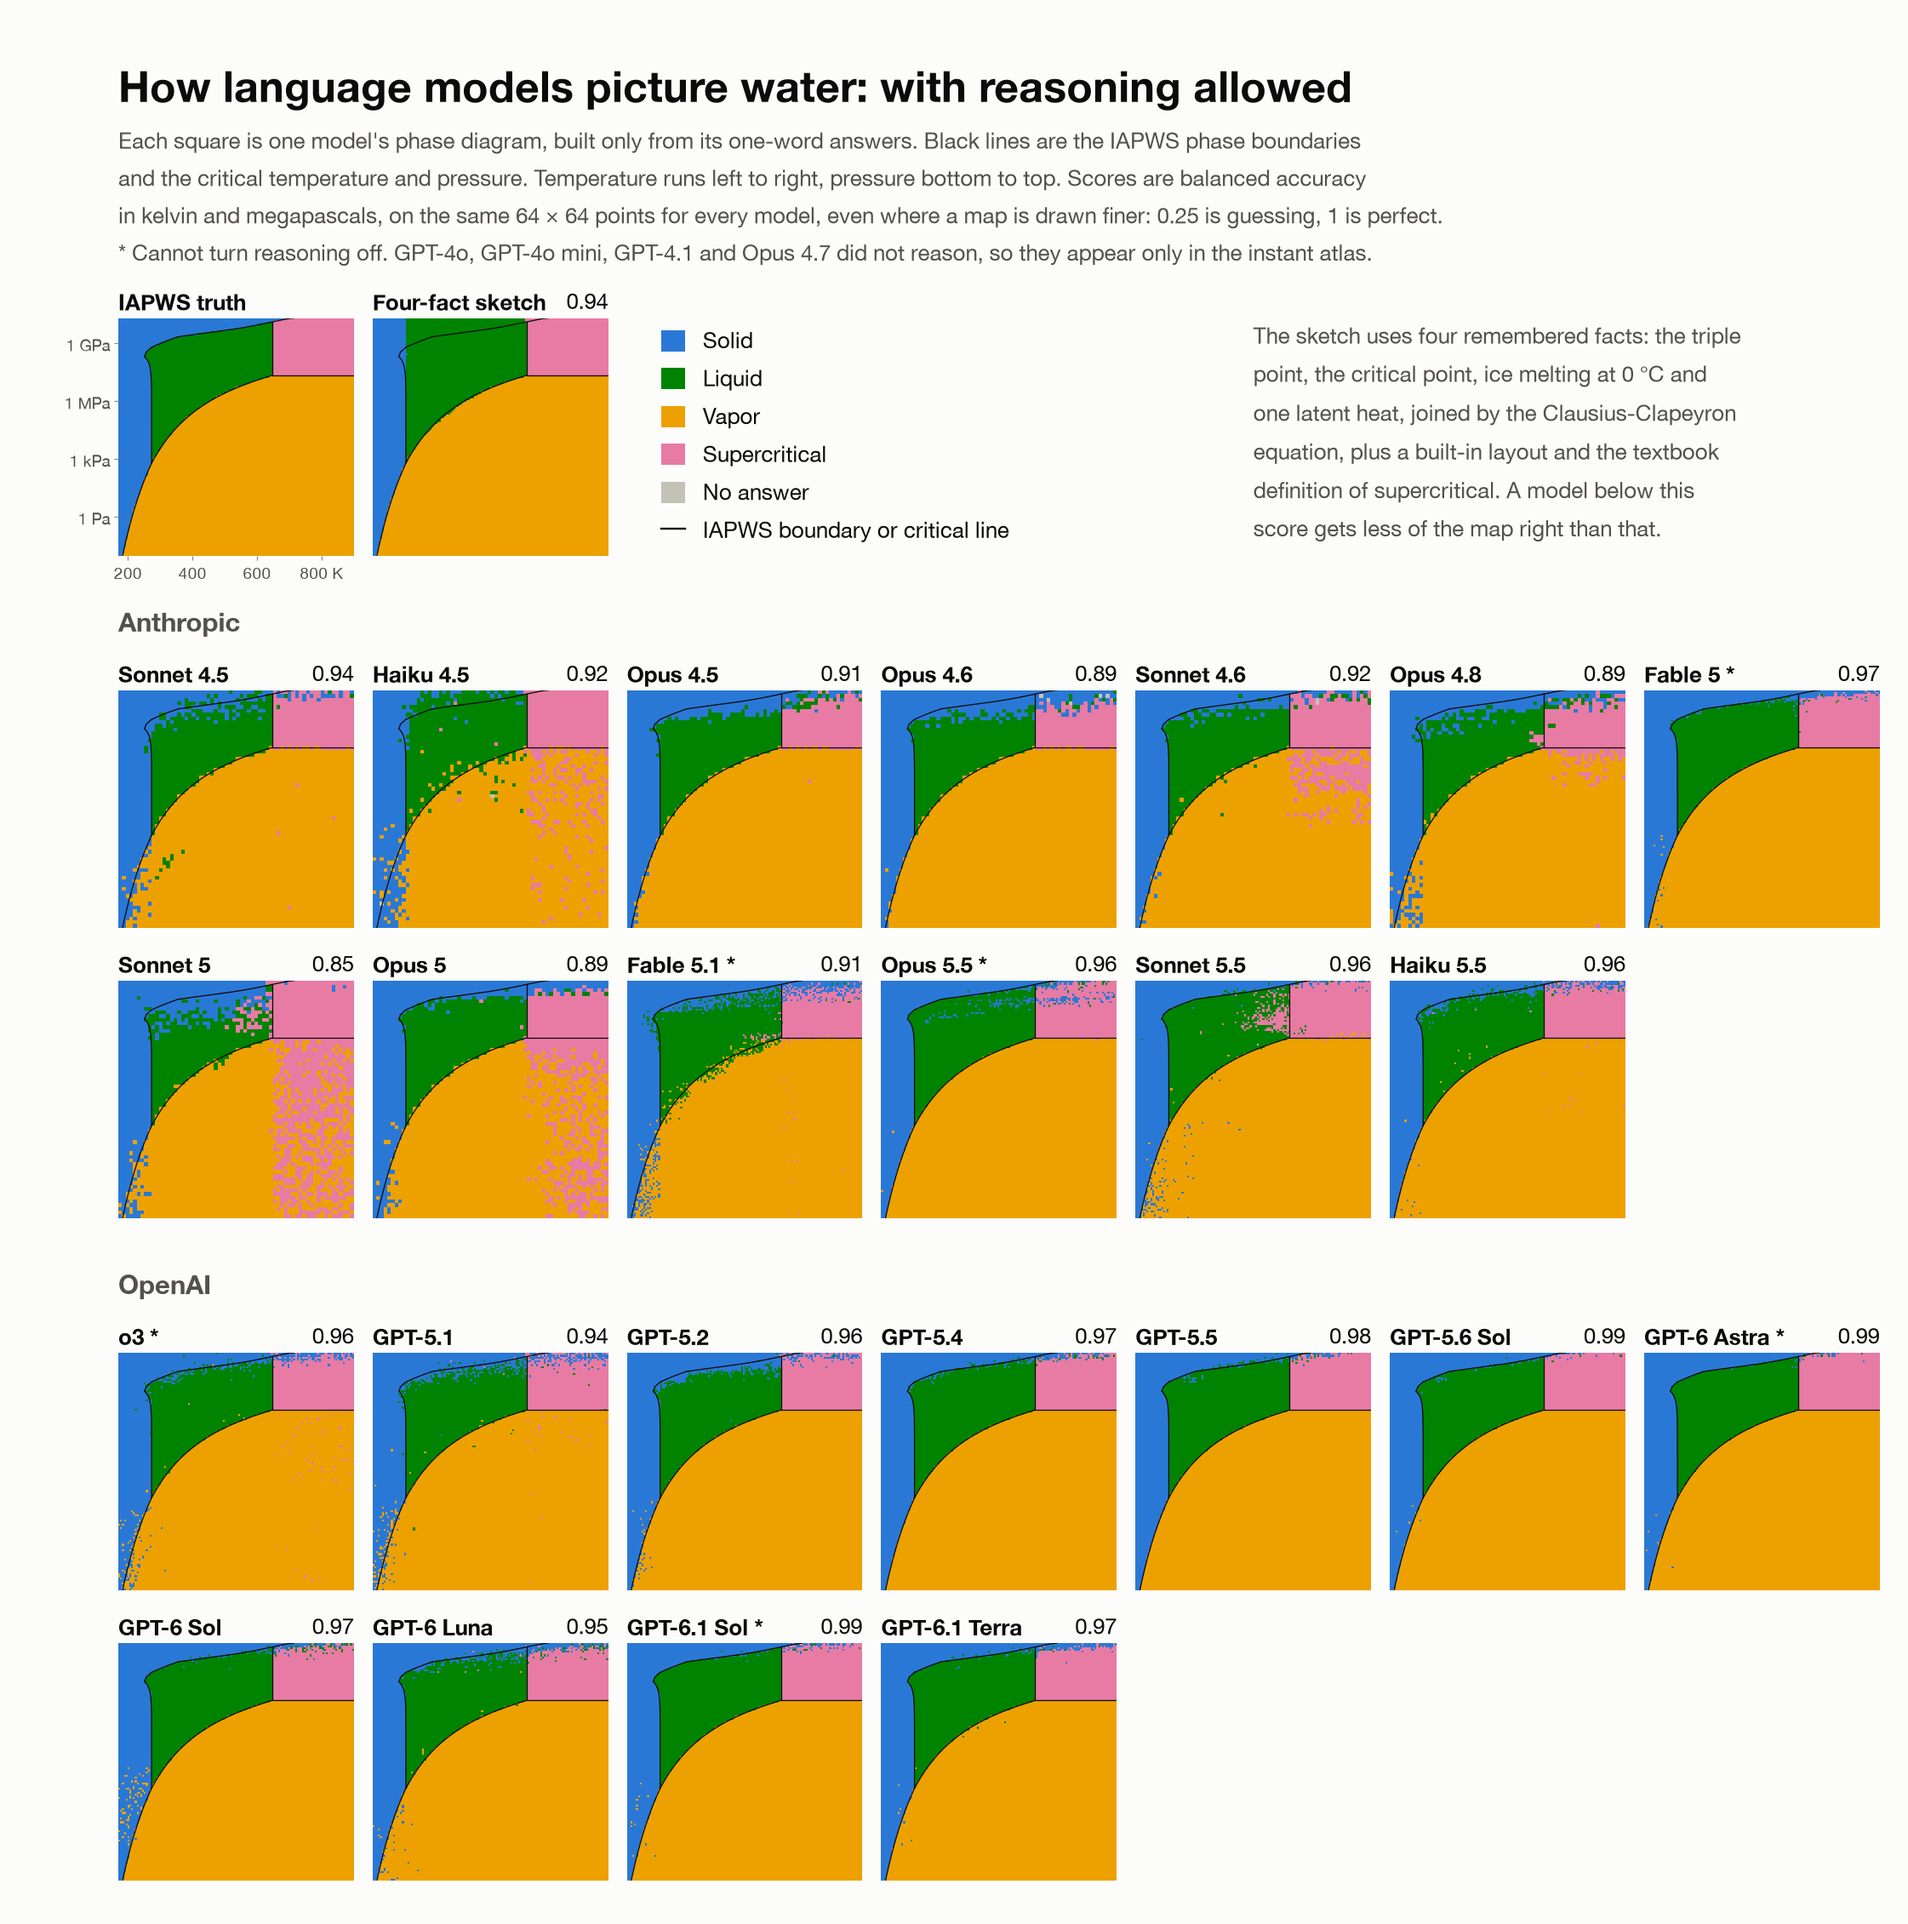
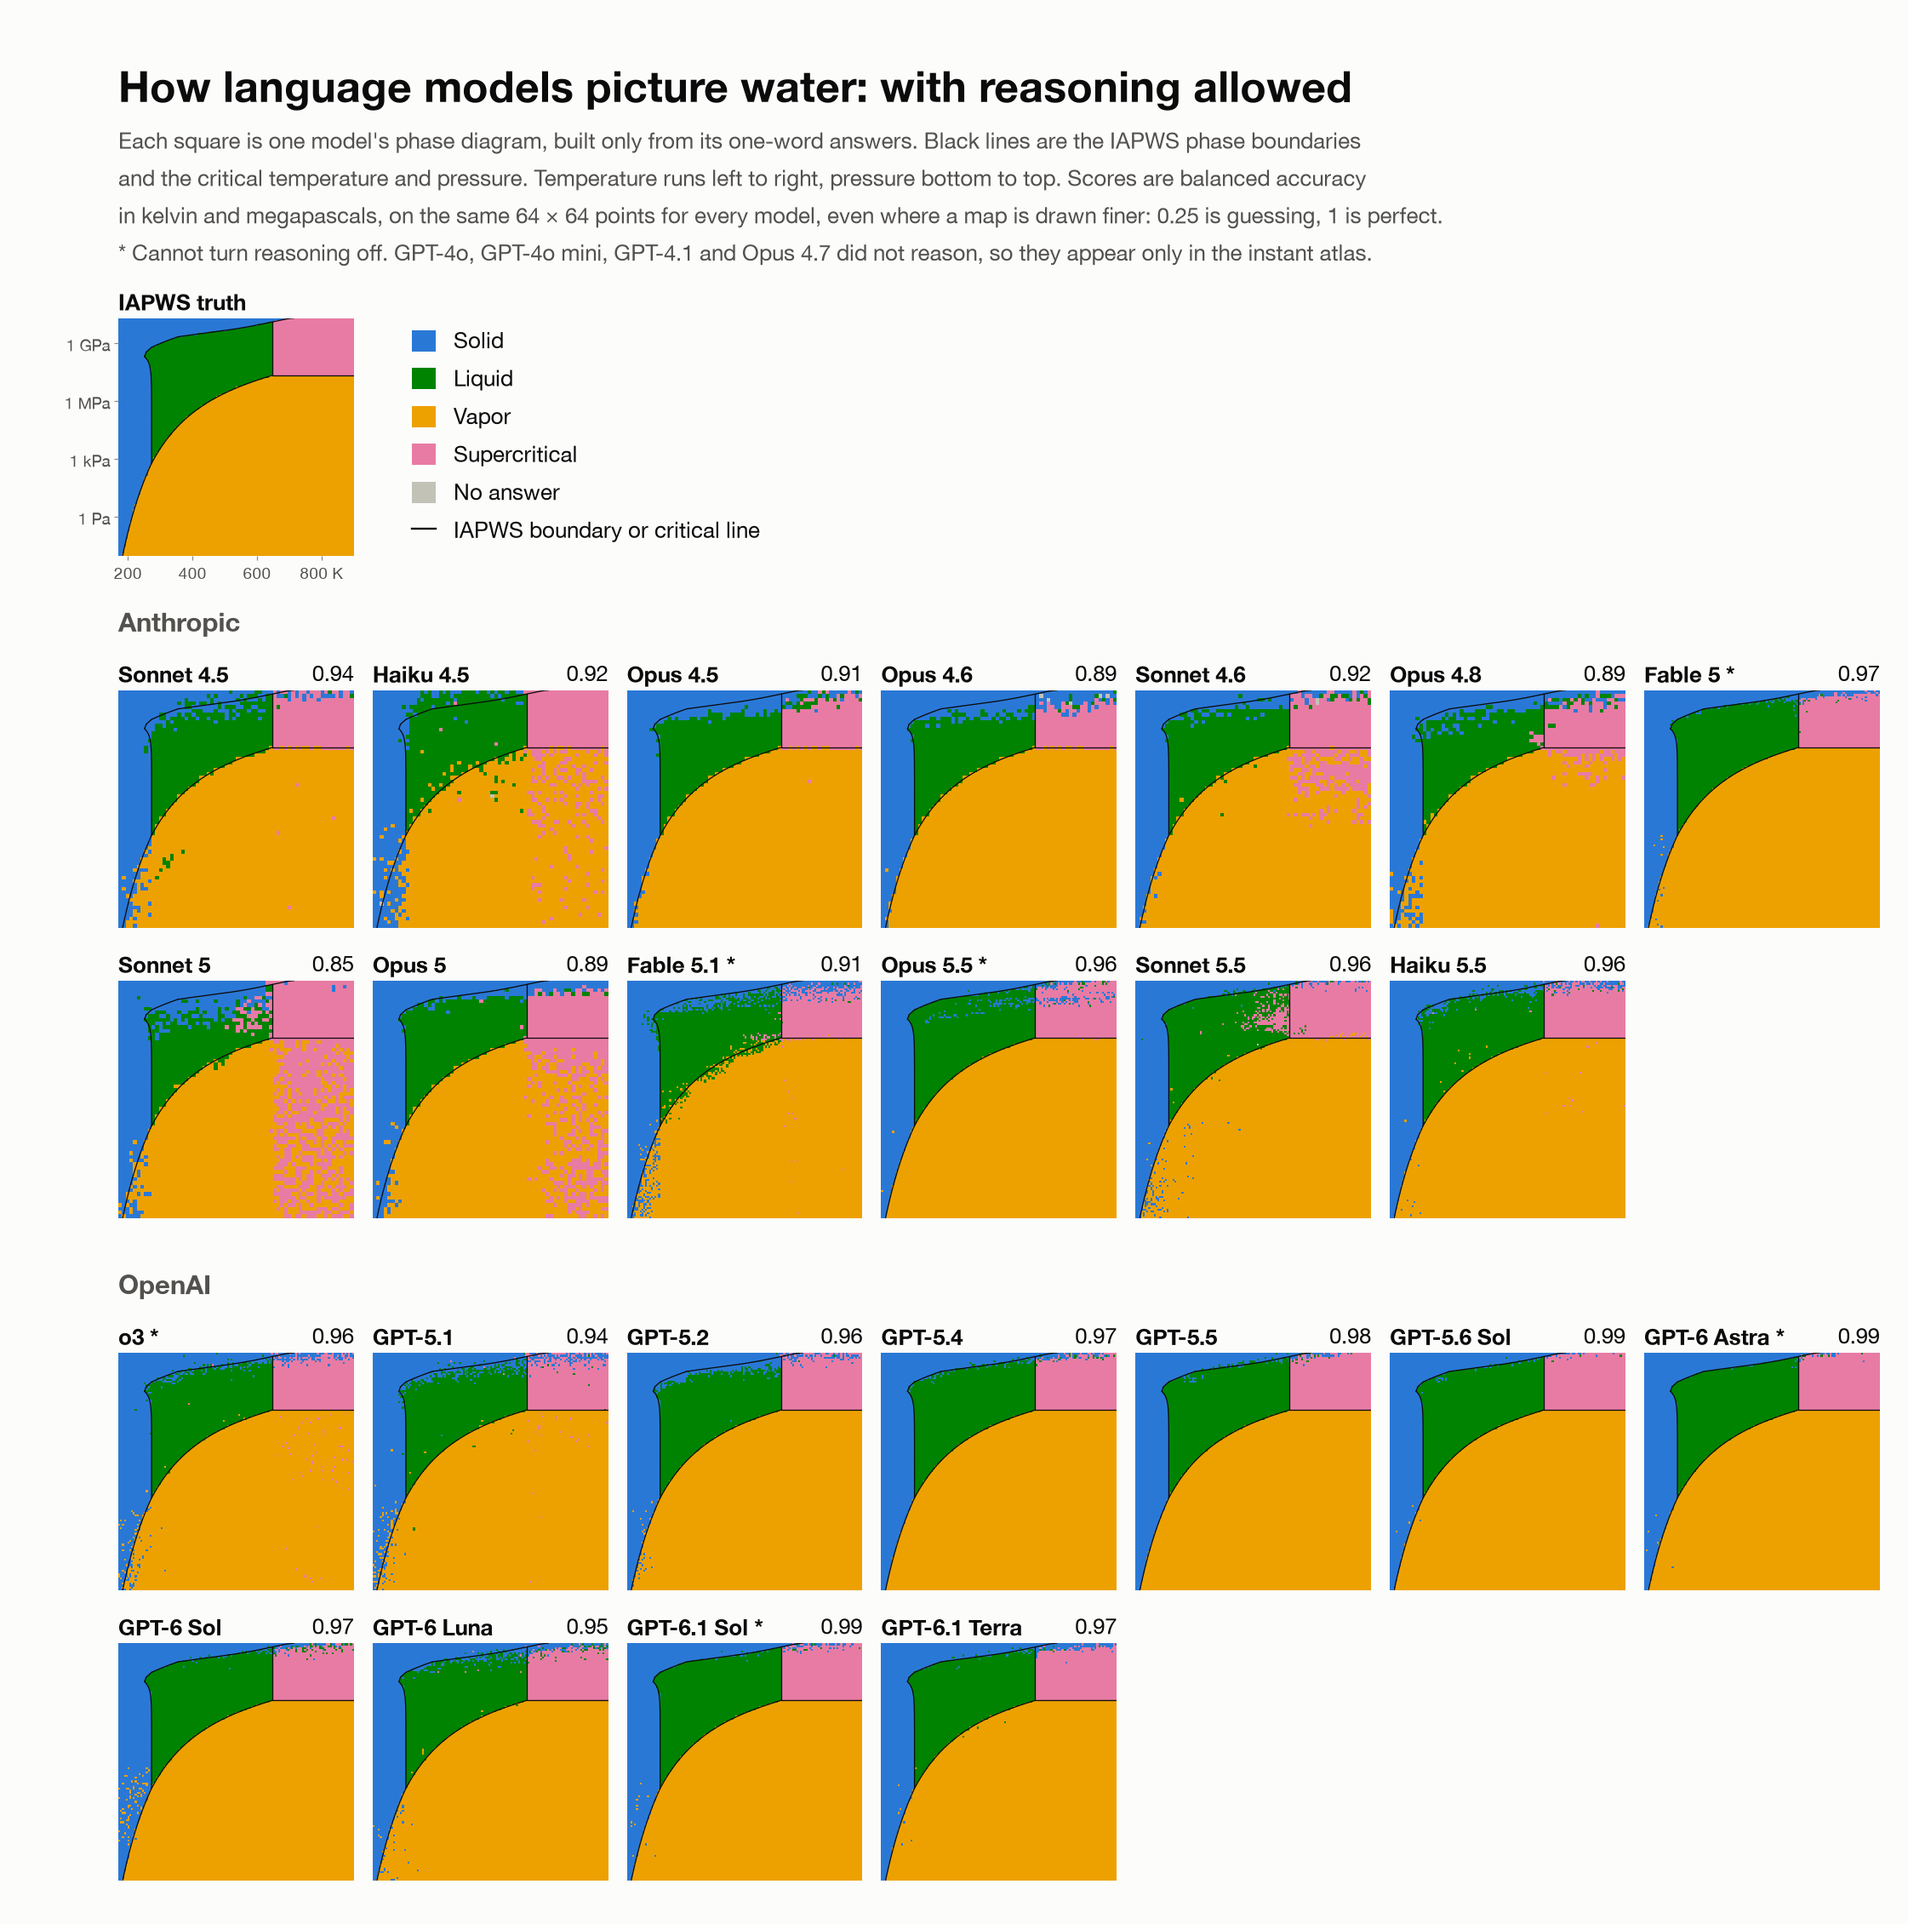
Update the water post

Changed region(s): [[0.1873, 0.1549, 0.4371, 0.3097], [0.6557, 0.1549, 0.9054, 0.2788]]

diff --git a/_posts/blog/2026-11-03-phase-diagram.md b/_posts/blog/2026-11-03-phase-diagram.md
@@ -1,21 +1,24 @@
 ---
 layout: post
-title: What does a language model think water does?
+title: Can LLMs predict water's state?
 date: 2026-11-03
 categories: machine_learning
 ---
 
-Thanks to left-over API credits, I got 1,180,160 answers from 28 language models, 14 from Anthropic and 14 from OpenAI, on the state of pure water at different temperatures and pressures. Each question looked like this:
+Thanks to left-over API credits, I got 1,180,160 answers from 28 language models, 14 from Anthropic and 14 from OpenAI, on the state of pure water at different temperatures and pressures, [repo](https://github.com/kiankyars/phase-diagram). Each question followed this format:
 
 > Pure water at equilibrium, at 450.00 kelvin and 2.000 megapascals: solid, liquid, vapor, or supercritical? Do not say anything else.
 
-Every question went in on its own, with no tools and no memory of the others. From the answers I drew the phase diagram each model implies and graded it against the IAPWS reference equations. The idea comes from henry's [How does a blind model see the Earth?](https://outsidetext.substack.com/p/how-does-a-blind-model-see-the-earth), which did the same thing with a world map.
+TL;DR
 
-The short version: answering instantly, no model beats a sketch I could draw from four facts I remember from school. Allowed to reason, 14 of 24 models beat it and the best are almost exact. Newer models are not clearly better.
+Instant answers are worse than reasoned ones, the best reasoning models are almost exact; I also not that newer models are not clearly better.
+
+The questions were independent, with no tools or memory. From the answers I drew the phase diagram of each model against the IAPWS reference equations.
+
 
 ## Explore the answers
 
-Every pixel is one question. Hover over it (or tap it, or use the arrow keys) to see the exact prompt, what the model said and the true phase. Black lines are the true boundaries.
+Hover over a pixel (or tap it, or use the arrow keys) to see the exact prompt, what the model said and the true phase. Black lines are the true boundaries.
 
 <div id="explorer">
   <div id="map" tabindex="0" aria-label="Phase diagram. Use the arrow keys to move between cells.">
@@ -42,10 +45,6 @@ Scores are balanced accuracy: the average share correct over the four phases. 0.
 ![Every model's phase diagram, with reasoning allowed](/imgs/2026-11-03-phase-diagram/atlas_reasoned.png)
 
 The instant maps look tidy: 84–98% of points sit in the biggest connected patch of their phase. But balanced accuracy is only 0.63 to 0.83. The big misses are liquid above the critical pressure, which models call supercritical or ice (68% wrong), and vapor below 0 °C (56% wrong).
-
-## Four facts beat every instant map
-
-I made a sketch from the triple point, the critical point, ice melting at 0 °C and one latent heat, joined by the Clausius-Clapeyron equation. It scores 0.94. No model answering instantly scores above 0.83. To be fair to the models, I chose the sketch's layout after a small trial run, and it has no ice above 0 °C, so 21 of the 22 instant maps beat it on high-pressure ice.
 
 ## Reasoning fixes most of it
 
@@ -77,16 +76,15 @@ Part of this is how the number is written rather than the unit itself: 2 MPa is 
 
 ![Reasoning tokens spent at each point for four models](/imgs/2026-11-03-phase-diagram/thought_map.png)
 
-Some models with reasoning allowed often skip it. Darker cells above took more reasoning tokens, and they trace the true boundaries. Opus 5.5 reasons on 79% of points near a boundary and 20% of the rest, Sonnet 5.5 on 76% and 17%.
+Darker cells above took more reasoning tokens, and they trace the true boundaries, cool! Opus 5.5 reasons on 79% of points near a boundary and 20% of the rest, Sonnet 5.5 on 76% and 17%.
 
 ## Caveats
 
-- Hot gas below the critical pressure counts as vapor and dense fluid above it counts as liquid. That is the textbook convention, but the prompt doesn't say so. If I accept "supercritical" for vapor above 647 K and liquid above 22 MPa, the best instant score rises from 0.83 to 0.92, still below the sketch's 0.94.
+- Hot gas below the critical pressure counts as vapor and dense fluid above it counts as liquid. That is the textbook convention, but the prompt doesn't say so. If I accept "supercritical" for vapor above 647 K and liquid above 22 MPa, the best instant score rises from 0.83 to 0.92.
 - Reasoning settings differ between models, so the reasoning comparison is not fully controlled.
-- I tested 143 trends and 84 unit gaps without correcting for that. By chance alone about 7 trends and 4 gaps would look clear; 26 and 13 did.
 - The whole experiment was run by Claude Opus 5.5, which is also one of the graded models.
 
-The run cost $796: $462 at Anthropic and $334 at OpenAI, at batch prices. The code, every answer and every raw reply are in the [repo](https://github.com/kiankyars/phase-diagram).
+The run cost $796: $462 at Anthropic and $334 at OpenAI, at batch prices.
 
 <style>
   #map { position: relative; width: 100%; max-width: 560px; aspect-ratio: 1; cursor: crosshair; touch-action: none; }
